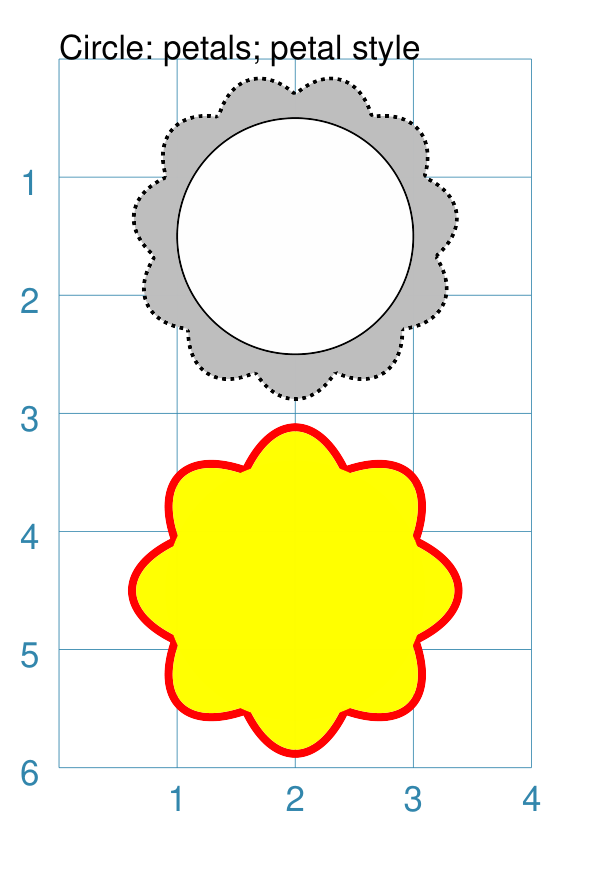
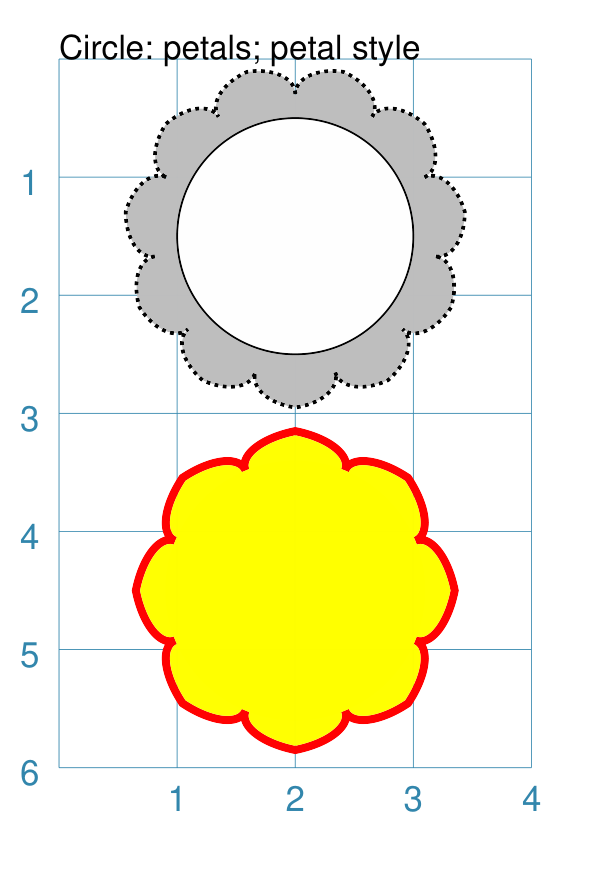
Add sun petal style to Circle

Changed region(s): [[0.186, 0.4011, 0.7749, 0.864], [0.4649, 0.0617, 0.7749, 0.432], [0.186, 0.0617, 0.4649, 0.432]]

diff --git a/protograf/shapes_circle.py b/protograf/shapes_circle.py
@@ -379,7 +379,13 @@ class CircleShape(BaseShape):
             angles = support.steps(90 - shift, 450 - shift, gap)
             # print(f' ^ {self.petals=} {angles=}')
             for index, angle in enumerate(angles):
-                angle = angle - 360.0 if angle > 360.0 else angle
+                _angle = angle
+                angle = _angle - 360.0 if _angle > 360.0 else _angle
+                if index == 0:
+                    start_angle = angle
+                else:
+                    if round(start_angle, 3) == round(angle, 3):
+                        break  # avoid a repeat
                 petals_style = _lower(self.petals_style)
                 if petals_style not in ["triangle", "t"]:
                     if len(angles) < self.petals + 1:
@@ -437,38 +443,32 @@ class CircleShape(BaseShape):
                         # first half
                         pt1 = geoms.point_on_circle(
                             center,
-                            self._u.radius + offset + height,
-                            angle - gap / 2.0,
-                        )
-                        pt2 = geoms.point_on_circle(
-                            center,
-                            self._u.radius + offset,
-                            angle - gap / 2.0
-                        )
-                        pt3 = geoms.point_on_circle(
-                            center,
                             self._u.radius + offset,
                             angle,
                         )
-                        # print(f'1st {angle=} {pt1=} {pt2=} {pt3=}')
+                        pt2 = geoms.point_on_circle(
+                            center, self._u.radius + offset, angle - gap / 2.0
+                        )
+                        pt3 = geoms.point_on_circle(
+                            center,
+                            self._u.radius + offset + height,
+                            angle - gap / 2.0,
+                        )
                         petals_vertices.append((pt1, pt2, pt3))
                         # second half
                         pt1 = geoms.point_on_circle(
                             center,
-                            self._u.radius + offset,
-                            angle,
+                            self._u.radius + offset + height,
+                            angle - gap / 2.0,
                         )
                         pt2 = geoms.point_on_circle(
-                            center,
-                            self._u.radius + offset,
-                            angle + gap / 2.0
+                            center, self._u.radius + offset, angle - gap / 2.0
                         )
                         pt3 = geoms.point_on_circle(
                             center,
-                            self._u.radius + offset + height,
-                            angle + gap / 2.0,
+                            self._u.radius + offset,
+                            angle - gap,
                         )
-                        # print(f'2nd {angle=} {pt1=} {pt2=} {pt3=}')
                         petals_vertices.append((pt1, pt2, pt3))
                     case _:
                         feedback(f'Unknown petals_style "{self.petals_style}"', True)

diff --git a/examples/core/customised_circle.py b/examples/core/customised_circle.py
@@ -102,7 +102,7 @@ Circle(cx=2, cy=1.5, radius=1,
        petals_offset=0.2,
        petals_stroke_width=1,
        petals_dotted=1,
-       petals_height=0.5,
+       petals_height=0.25,
        petals_fill="gray")
 
 Circle(cx=2, cy=4.5, radius=1,
@@ -111,7 +111,30 @@ Circle(cx=2, cy=4.5, radius=1,
        petals_style="p",
        petals_offset=0.1,
        petals_stroke_width=2,
-       petals_height=0.8,
+       petals_height=0.25,
+       petals_stroke="red",
+       petals_fill="yellow")
+PageBreak()
+
+# ---- circle petals_sun
+Blueprint()
+Text(common=txt, text="Circle: petals; sun style")
+Circle(cx=2, cy=1.5, radius=1,
+       petals=11,
+       petals_style="sun",
+       petals_offset=0.2,
+       petals_stroke_width=1,
+       petals_dotted=1,
+       petals_height=0.5,
+       petals_fill="gray")
+
+Circle(cx=2, cy=4.5, radius=1,
+       fill_stroke="yellow",
+       petals=8,
+       petals_style="s",
+       petals_offset=0.1,
+       petals_stroke_width=2,
+       petals_height=0.5,
        petals_stroke="red",
        petals_fill="yellow")
 PageBreak()
@@ -183,6 +206,7 @@ Save(
         "radii",
         "petals_triangle",
         "petals_petal",
+        "petals_sun",
         "radii_labels",
         "circle_slices",
         "circle_nested",

diff --git a/docs/source/customised_shapes.rst b/docs/source/customised_shapes.rst
@@ -2674,6 +2674,7 @@ ways that it can be customised.
 - `Radii Labels <circleRadiiLabels_>`_
 - `Petals: petal <circlePetalsPetal_>`_
 - `Petals: triangle <circlePetalsTriangle_>`_
+- `Petals: sun <circlePetalsSun_>`_
 - `Slices <circleSlices_>`_
 - `Nested <circleNested_>`_
 - `Ordering of Properties <circleOrder_>`_
@@ -2933,7 +2934,7 @@ effect.
                petals_offset=0.2,
                petals_stroke_width=1,
                petals_dotted=1,
-               petals_height=0.5,
+               petals_height=0.25,
                petals_fill="gray")
 
         Circle(cx=2, cy=4.5, radius=1,
@@ -2942,7 +2943,7 @@ effect.
                petals_style="p",
                petals_offset=0.1,
                petals_stroke_width=2,
-               petals_height=0.8,
+               petals_height=0.25,
                petals_stroke="red",
                petals_fill="yellow")
 
@@ -3020,6 +3021,63 @@ effect.
 
       Note that these petals have a default *petals_style* of
       ``t`` or ``triangle``.
+
+===== ======
+
+
+.. _circlePetalsSun:
+
+Petals - sun
+------------
+`^ <circle_>`_
+
+Petals are projecting shapes drawn from the circumference of a Circle outwards
+at regular intervals.  They are typically used to create a "flower" or "sun"
+effect.
+
+.. |cps| image:: images/custom/circle/petals_sun.png
+   :width: 330
+
+===== ======
+|cps| This example shows Circles constructed using these commands:
+
+      .. code:: python
+
+        Circle(cx=2, cy=1.5, radius=1,
+               petals=11,
+               petals_style="sun",
+               petals_offset=0.25,
+               petals_stroke_width=1,
+               petals_dotted=True,
+               petals_height=0.5,
+               petals_fill="grey")
+        Circle(cx=2, cy=4.5, radius=1,
+               stroke=None, fill=None,
+               petals=8,
+               petals_style="s",
+               petals_stroke_width=3,
+               petals_height=0.5,
+               petals_stroke="red",
+               petals_fill="yellow")
+
+      These Circles have the following properties:
+
+      - *cx*, *cy*, *radius*, *stroke* and *fill* - set the properties of the
+        `Circle`_; if these are set to ``None`` then the *petal_fill*
+        setting will be used for the whole area
+      - *petals* - sets the number of petals to drawn
+      - *petals_offset* - sets the distance of the lowest point of the petal
+        line away from the circle's circumference
+      - *petals_stroke_width* - sets the thickness of the line used to draw
+        the petals
+      - *petals_fill* - sets the color of the area inside the line used to
+        draw the petals. Any *fill* or *stroke* settings for the circle itself
+        may appear superimposed on this area.
+      - *petals_dotted* - if ``True``, sets the line style to *dotted*
+      - *petals_height* - sets the distance between the highest and the lowest
+        points of the petal line
+
+      Note that these petals have the *petals_style* of ``s`` or ``sun``.
 
 ===== ======
 
